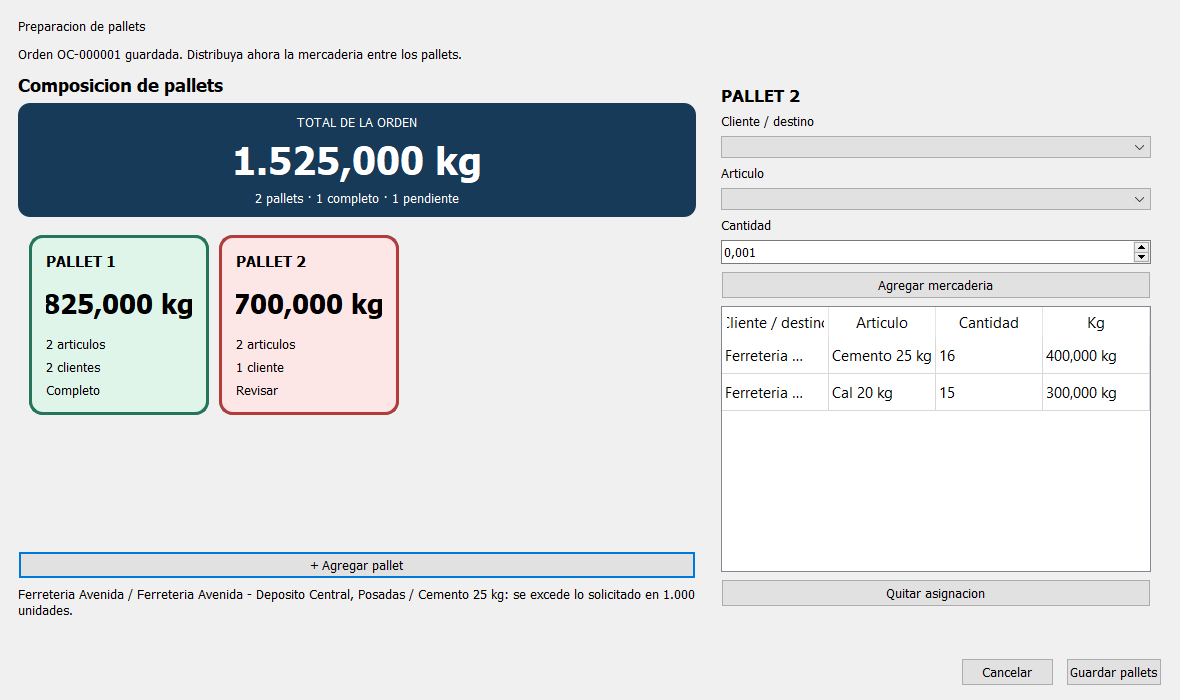
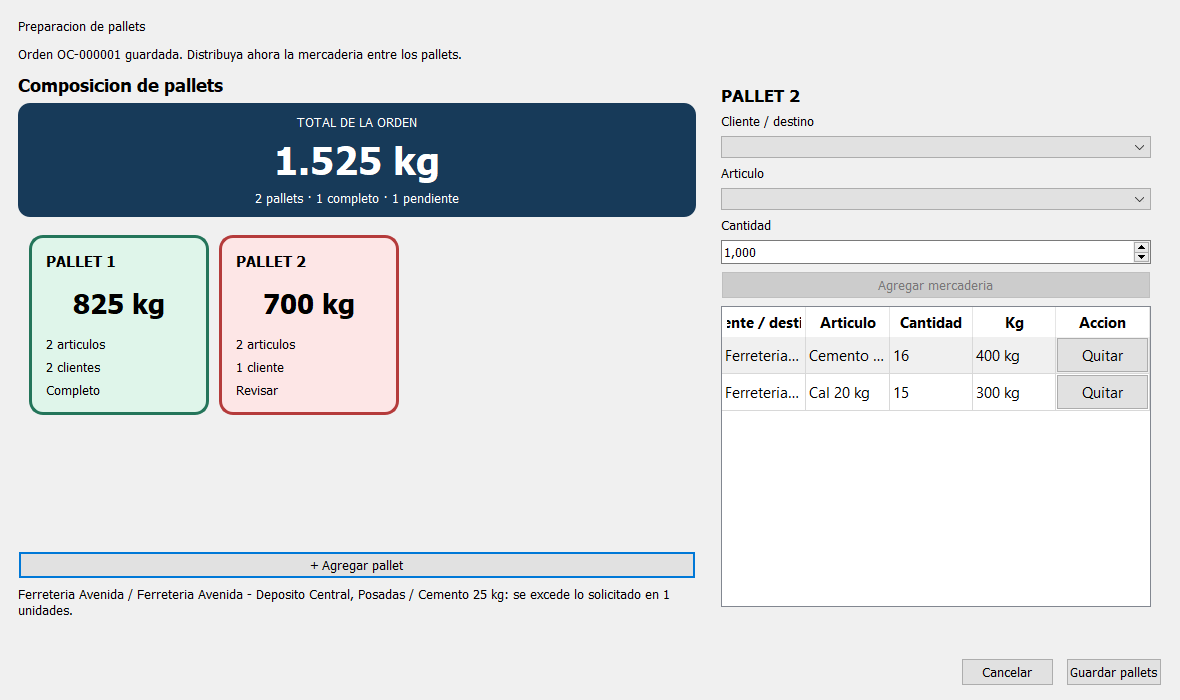
docs: stabilize invalid pallet evidence

diff --git a/scripts/generate_ux_screenshots.py b/scripts/generate_ux_screenshots.py
@@ -8,8 +8,8 @@ os.environ.setdefault("QT_QPA_PLATFORM", "windows" if os.name == "nt" else "offs
 sys.path.insert(0, str(Path(__file__).resolve().parents[1]))
 
 from peewee import SqliteDatabase
-from PyQt5.QtGui import QImage
-from PyQt5.QtWidgets import QApplication
+from PyQt5.QtGui import QColor, QImage, QPixmap
+from PyQt5.QtWidgets import QApplication, QPushButton
 
 from app.config.database import bind_database
 from app.models import ALL_MODELS
@@ -177,10 +177,32 @@ def _show_dialog(dialog, app, *, step: int | None = None) -> None:
     app.processEvents()
 
 
-def _capture(widget, target: Path) -> None:
+def _capture(widget, target: Path, *, render_canvas: bool = False) -> None:
     widget.repaint()
     QApplication.processEvents()
-    opaque_image = widget.grab().toImage().convertToFormat(QImage.Format_RGB32)
+    if render_canvas:
+        action_buttons = [
+            button for button in widget.findChildren(QPushButton) if button.text() == "Quitar"
+        ]
+        for button in action_buttons:
+            button.hide()
+        QApplication.processEvents()
+        canvas = QPixmap(widget.size())
+        canvas.fill(QColor("white"))
+        widget.render(canvas)
+        opaque_image = canvas.toImage().convertToFormat(QImage.Format_RGB32)
+        for button in action_buttons:
+            button.show()
+    else:
+        opaque_image = widget.grab().toImage().convertToFormat(QImage.Format_RGB32)
+    sampled_pixels = [
+        opaque_image.pixelColor(x, y)
+        for x in range(0, opaque_image.width(), 10)
+        for y in range(0, opaque_image.height(), 10)
+    ]
+    black_pixels = sum(color.red() < 8 and color.green() < 8 and color.blue() < 8 for color in sampled_pixels)
+    if black_pixels > len(sampled_pixels) // 5:
+        raise RuntimeError(f"La captura contiene regiones negras anormales: {target}")
     if not opaque_image.save(str(target), "PNG"):
         raise RuntimeError(f"No se pudo guardar {target}")
 
@@ -243,7 +265,7 @@ def generate(output_dir: Path) -> list[Path]:
     edit_dialog.pallet_widget._select_pallet(2)
     app.processEvents()
     targets.append(output_dir / "04_estado_rojo_excedente.png")
-    _capture(edit_dialog, targets[-1])
+    _capture(edit_dialog, targets[-1], render_canvas=True)
 
     new_dialog.close()
     edit_dialog.close()